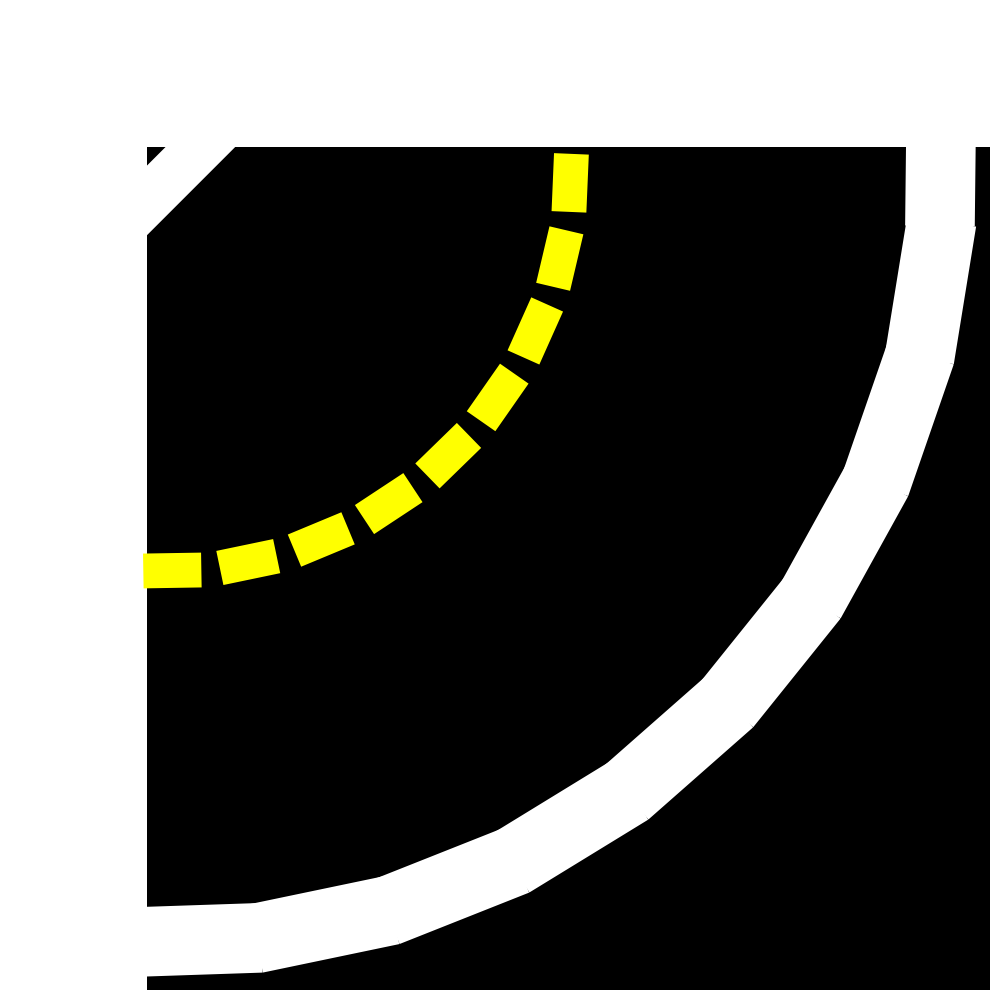
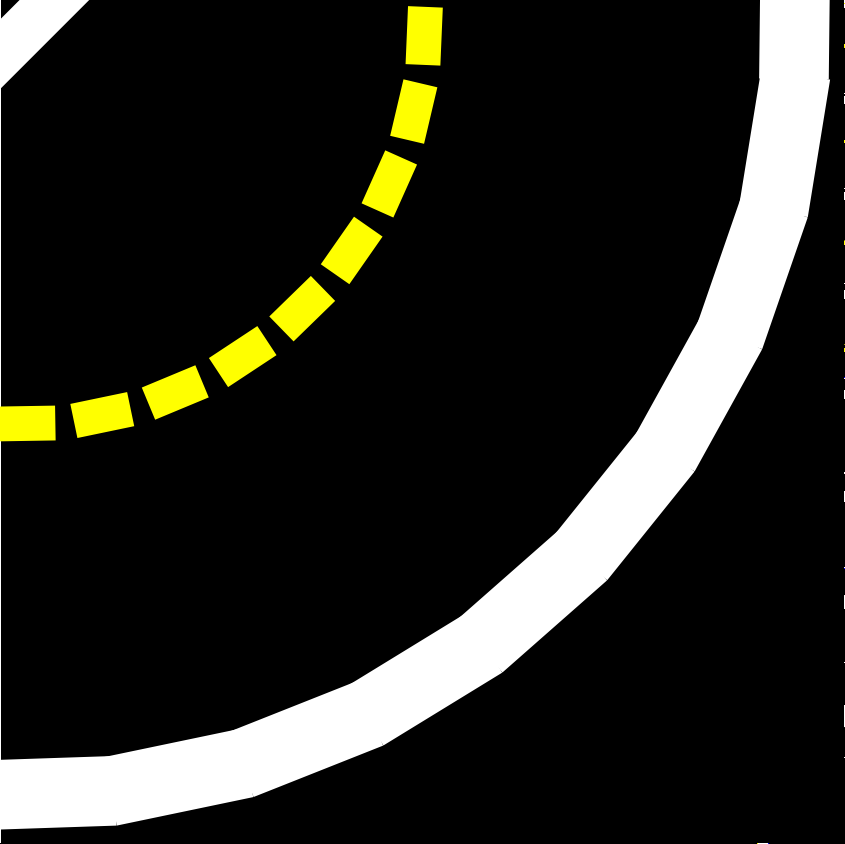
Render imported map Fixed background bug Cropped images

diff --git a/mapviewer.py b/mapviewer.py
@@ -40,18 +40,18 @@ class MapViewer(QGraphicsView, QtWidgets.QWidget):
         self.tileSprites['floor'].load('./img/tiles/floor.png')
 
     def setTiles(self, tiles: DuckietownMap):
-        print('tiles set')
+        # print('tiles set')
         self.tiles = tiles
-        tile = MapTile('curve_left', 0)
-        self.tiles.items.insert(0, [])
-        self.tiles.items[0].insert(0, tile)
+        # print(self.tiles.tiles)
+        # print(self.tiles.gridSize)
+        self.scene().update()
 
     def wheelEvent(self, event: QtGui.QWheelEvent) -> None:
         sf = 2 ** (event.angleDelta().y() / 240)
         if (self.sc < 0.5 and sf < 1) or (self.sc > 100 and sf > 1):
             return
         self.sc *= sf
-        self.scale(self.sc, self.sc)
+        self.scene().update()
 
     def mouseReleaseEvent(self, event: QtGui.QMouseEvent) -> None:
         self.rmbPressed = False
@@ -69,23 +69,26 @@ class MapViewer(QGraphicsView, QtWidgets.QWidget):
             self.scene().update()
 
     def drawBackground(self, painter: QtGui.QPainter, rect: QtCore.QRectF):
-        #painter.fillRect(-750, -750, 1450, 1450, QtGui.QColor('darkGray'))
+        painter.setRenderHint(QtGui.QPainter.Antialiasing, True)
+        painter.resetTransform()
+        painter.fillRect(-2000, -1000, 4000, 2000, QtGui.QColor('darkGray'))
         globalTransform = QtGui.QTransform()
         globalTransform.translate(self.offsetX, self.offsetY)
         painter.setTransform(globalTransform, False)
-        for y in range(len(self.tiles.items)):
-            for x in range(len(self.tiles.items[y])):
+        for y in range(len(self.tiles.tiles)):
+            for x in range(len(self.tiles.tiles[y])):
+                painter.scale(self.sc, self.sc)
                 painter.translate(x * self.tiles.gridSize, y * self.tiles.gridSize)
-                if self.tiles.items[y][x].rotation == 90:
+                painter.drawRect(QtCore.QRectF(0,0,self.tiles.gridSize,self.tiles.gridSize))
+                if self.tiles.tiles[y][x]['rotate'] == 90:
                     painter.rotate(90)
                     painter.translate(0, -self.tiles.gridSize)
-                elif self.tiles.items[y][x].rotation == 180:
+                elif self.tiles.tiles[y][x]['rotate'] == 180:
                     painter.rotate(180)
                     painter.translate(-self.tiles.gridSize, -self.tiles.gridSize)
-                elif self.tiles.items[y][x].rotation == 270:
+                elif self.tiles.tiles[y][x]['rotate'] == 270:
                     painter.rotate(270)
                     painter.translate(-self.tiles.gridSize, 0)
-                painter.scale(self.sc, self.sc)
                 painter.drawImage(QtCore.QRectF(0, 0, self.tiles.gridSize, self.tiles.gridSize),
-                                  self.tileSprites[self.tiles.items[y][x].kind])
+                                  self.tileSprites[self.tiles.tiles[y][x]['kind']])
                 painter.setTransform(globalTransform, False)

diff --git a/mainwindow.py b/mainwindow.py
@@ -9,6 +9,7 @@ from IOManager import open_map
 
 class duck_window(QtWidgets.QMainWindow):
     tiles = None
+    mapviewer = None
 
     def __init__(self):
         super().__init__()
@@ -17,6 +18,7 @@ class duck_window(QtWidgets.QMainWindow):
         self.ui.setupUi(self)
         viewer = mapviewer.MapViewer()
         viewer.setTiles(self.tiles)
+        self.mapviewer = viewer
         viewer.setMinimumSize(540, 540)
         self.ui.horizontalLayout.addWidget(viewer)
         viewer.repaint()
@@ -53,37 +55,37 @@ class duck_window(QtWidgets.QMainWindow):
         self.move(qr.topLeft())
 
     def open_map_triggered(self):
-        #TODO Действия по открытию карты
+        # TODO Действия по открытию карты
         print("кнопка открыть файл нажата")
         open_map(self)
-
+        self.mapviewer.scene().update()
 
     def save_map_triggered(self):
-        #TODO Сохранение карты
+        # TODO Сохранение карты
         print("кнопка сохранить файл нажата")
 
     def save_map_as_triggered(self):
-        #TODO Сохранение карт с новым именем
+        # TODO Сохранение карт с новым именем
         print("кнопка сохранить файл как нажата")
 
     def export_png_triggered(self):
-        #TODO Экспорт в png
+        # TODO Экспорт в png
         pass
 
     def calc_param_triggered(self):
-        #TODO Подсчёт характеристик карт
+        # TODO Подсчёт характеристик карт
         pass
 
     def calc_materials_triggered(self):
-        #TODO Расчёт требуемых материалов
+        # TODO Расчёт требуемых материалов
         pass
 
     def help_info_triggered(self):
-        #TODO Вывод справки по работе с программой
+        # TODO Вывод справки по работе с программой
         pass
 
     def about_author_triggered(self):
-        #TODO Информация о великих создателях
+        # TODO Информация о великих создателях
         pass
 
     def exit_triggered(self):

diff --git a/map_parser.py b/map_parser.py
@@ -22,13 +22,13 @@ def get_tiles(name):
                 kind, rotate = tile.split('/')
                 tile_object['kind'] = kind
                 if rotate == 'N':
-                    tile_object['rotate'] = 0
-                elif rotate == 'E':
-                    tile_object['rotate'] = 90
-                elif rotate == 'S':
-                    tile_object['rotate'] = 180
-                elif rotate == 'W':
                     tile_object['rotate'] = 270
+                elif rotate == 'E':
+                    tile_object['rotate'] = 0
+                elif rotate == 'S':
+                    tile_object['rotate'] = 90
+                elif rotate == 'W':
+                    tile_object['rotate'] = 180
             else:
                 tile_object['kind'] = tile
                 tile_object['rotate'] = 0

diff --git a/IOManager.py b/IOManager.py
@@ -5,11 +5,11 @@ from PyQt5.QtWidgets import QFileDialog
 from map_parser import *
 
 
-def open_map(self):
-    input_map = QFileDialog.getOpenFileName(self, 'Open file', '.')[0]
-    tiles_array = get_tiles(input_map)
+def open_map(parent: QtWidgets.QWidget):
+    input_map = QFileDialog.getOpenFileName(parent, 'Open file', '.')[0]
+    parent.tiles.tiles = get_tiles(input_map)
     objects_array = get_objects(input_map)
-    tile_size = get_tile_size(input_map)
-    print(tiles_array)
+    parent.tiles.gridSize = 100*get_tile_size(input_map)
+    print(parent.tiles.tiles)
     print(objects_array)
-    print(tile_size)
+    print(parent.tiles.gridSize)
